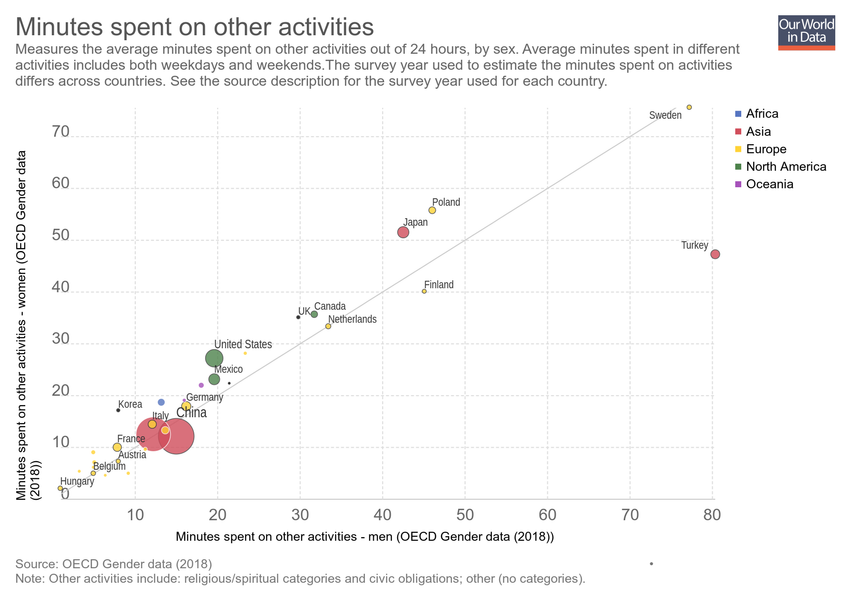
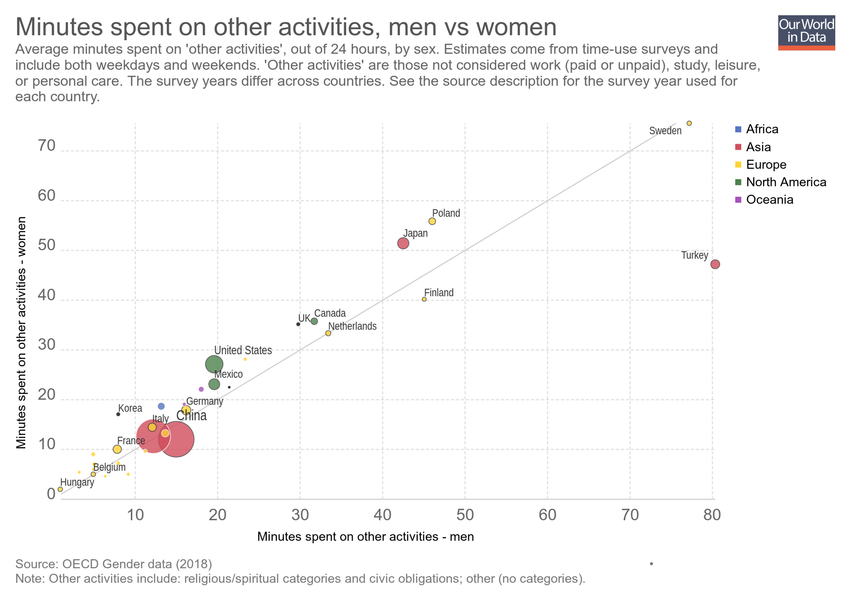
Updating chart minutes-spent-on-other-activities

diff --git a/grapher/minutes-spent-on-other-activities.html b/grapher/minutes-spent-on-other-activities.html
@@ -1,4 +1,4 @@
-<!doctype html><html><head><meta name="viewport" content="width=device-width, initial-scale=1" /><title>Minutes spent on other activities - Our World in Data</title><meta name="description" content="Measures the average minutes spent on other activities out of 24 hours, by sex. Average minutes spent in different activities includes both weekdays and weekends.The survey year used to estimate the minutes spent on activities differs across countries. See the source description for the survey year used for each country." /><link rel="canonical" href="https://ourworldindata.org/grapher/minutes-spent-on-other-activities" /><meta property="fb:app_id" content="1149943818390250" /><meta property="og:url" content="https://ourworldindata.org/grapher/minutes-spent-on-other-activities" /><meta property="og:title" content="Minutes spent on other activities" /><meta property="og:description" content="Measures the average minutes spent on other activities out of 24 hours, by sex. Average minutes spent in different activities includes both weekdays and weekends.The survey year used to estimate the minutes spent on activities differs across countries. See the source description for the survey year used for each country." /><meta property="og:image" content="https://ourworldindata.org/grapher/exports/minutes-spent-on-other-activities.png?v=1" /><meta property="og:image:width" content="850" /><meta property="og:image:height" content="600" /><meta property="og:site_name" content="Our World in Data" /><meta name="twitter:card" content="summary_large_image" /><meta name="twitter:site" content="@OurWorldInData" /><meta name="twitter:creator" content="@OurWorldInData" /><meta name="twitter:title" content="Minutes spent on other activities" /><meta name="twitter:description" content="Measures the average minutes spent on other activities out of 24 hours, by sex. Average minutes spent in different activities includes both weekdays and weekends.The survey year used to estimate the minutes spent on activities differs across countries. See the source description for the survey year used for each country." /><meta name="twitter:image" content="https://ourworldindata.org/grapher/exports/minutes-spent-on-other-activities.png?v=1" /><style>
+<!doctype html><html><head><meta name="viewport" content="width=device-width, initial-scale=1" /><title>Minutes spent on other activities, men vs women - Our World in Data</title><meta name="description" content="Average minutes spent on 'other activities', out of 24 hours, by sex. Estimates come from time-use surveys and include both weekdays and weekends. 'Other activities' are those not considered work (paid or unpaid), study, leisure, or personal care. The survey years differ across countries. See the source description for the survey year used for each country." /><link rel="canonical" href="https://ourworldindata.org/grapher/minutes-spent-on-other-activities" /><meta property="fb:app_id" content="1149943818390250" /><meta property="og:url" content="https://ourworldindata.org/grapher/minutes-spent-on-other-activities" /><meta property="og:title" content="Minutes spent on other activities, men vs women" /><meta property="og:description" content="Average minutes spent on 'other activities', out of 24 hours, by sex. Estimates come from time-use surveys and include both weekdays and weekends. 'Other activities' are those not considered work (paid or unpaid), study, leisure, or personal care. The survey years differ across countries. See the source description for the survey year used for each country." /><meta property="og:image" content="https://ourworldindata.org/grapher/exports/minutes-spent-on-other-activities.png?v=3" /><meta property="og:image:width" content="850" /><meta property="og:image:height" content="600" /><meta property="og:site_name" content="Our World in Data" /><meta name="twitter:card" content="summary_large_image" /><meta name="twitter:site" content="@OurWorldInData" /><meta name="twitter:creator" content="@OurWorldInData" /><meta name="twitter:title" content="Minutes spent on other activities, men vs women" /><meta name="twitter:description" content="Average minutes spent on 'other activities', out of 24 hours, by sex. Estimates come from time-use surveys and include both weekdays and weekends. 'Other activities' are those not considered work (paid or unpaid), study, leisure, or personal care. The survey years differ across countries. See the source description for the survey year used for each country." /><meta name="twitter:image" content="https://ourworldindata.org/grapher/exports/minutes-spent-on-other-activities.png?v=3" /><style>
         html, body {
             height: 100%;
             margin: 0;
@@ -20,8 +20,8 @@
         }
     </style><noscript><style>
                     figure { display: none !important; }
-                </style></noscript><link rel="stylesheet" href="https://ourworldindata.org/grapher/assets/commons.bundle.dcbbe53805c487d5e57617b10ac73a8a.css" /><link rel="preload" href="/grapher/data/variables/96621+96616+72+123.json?v=1" as="fetch" crossorigin /></head><body class="singleChart"><figure data-grapher-src="/grapher/minutes-spent-on-other-activities"></figure><noscript id="fallback"><img src="/grapher/exports/minutes-spent-on-other-activities.svg" /><p>Interactive visualization requires JavaScript</p></noscript><script src="https://cdn.polyfill.io/v2/polyfill.min.js?features=es6,fetch"></script><script src="https://ourworldindata.org/grapher/assets/commons.bundle.43d139222ef978d52c09.js"></script><script src="https://ourworldindata.org/grapher/assets/charts.bundle.43d139222ef978d52c09.js"></script><script>
-        var jsonConfig = {"map":{"projection":"World","colorSchemeLabels":[],"colorSchemeValues":[],"colorSchemeMinValue":0,"customNumericColors":[],"customCategoryColors":{},"customCategoryLabels":{},"customHiddenCategories":{}},"tab":"chart","note":"Other activities include: religious/spiritual categories and civic obligations; other (no categories).","slug":"minutes-spent-on-other-activities","type":"ScatterPlot","title":"Minutes spent on other activities","xAxis":{"scaleType":"linear"},"yAxis":{"min":0,"scaleType":"linear"},"version":1,"subtitle":"Measures the average minutes spent on other activities out of 24 hours, by sex. Average minutes spent in different activities includes both weekdays and weekends.The survey year used to estimate the minutes spent on activities differs across countries. See the source description for the survey year used for each country.","hasMapTab":false,"stackMode":"absolute","dimensions":[{"display":{},"property":"y","variableId":96621},{"display":{},"property":"x","variableId":96616},{"display":{},"property":"size","variableId":72},{"display":{},"property":"color","variableId":123}],"isAutoSlug":true,"hasChartTab":true,"isPublished":true,"selectedData":[],"comparisonLine":{},"hideTitleAnnotation":true,"id":2542};
+                </style></noscript><link rel="stylesheet" href="https://ourworldindata.org/grapher/assets/commons.bundle.dcbbe53805c487d5e57617b10ac73a8a.css" /><link rel="preload" href="/grapher/data/variables/96621+96616+72+123.json?v=3" as="fetch" crossorigin /></head><body class="singleChart"><figure data-grapher-src="/grapher/minutes-spent-on-other-activities"></figure><noscript id="fallback"><img src="/grapher/exports/minutes-spent-on-other-activities.svg" /><p>Interactive visualization requires JavaScript</p></noscript><script src="https://cdn.polyfill.io/v2/polyfill.min.js?features=es6,fetch"></script><script src="https://ourworldindata.org/grapher/assets/commons.bundle.43d139222ef978d52c09.js"></script><script src="https://ourworldindata.org/grapher/assets/charts.bundle.43d139222ef978d52c09.js"></script><script>
+        var jsonConfig = {"id":2542,"map":{"projection":"World","colorSchemeLabels":[],"colorSchemeValues":[],"colorSchemeMinValue":0,"customNumericColors":[],"customCategoryColors":{},"customCategoryLabels":{},"customHiddenCategories":{}},"tab":"chart","note":"Other activities include: religious/spiritual categories and civic obligations; other (no categories).","slug":"minutes-spent-on-other-activities","type":"ScatterPlot","title":"Minutes spent on other activities, men vs women","xAxis":{"scaleType":"linear"},"yAxis":{"min":0,"scaleType":"linear"},"version":3,"subtitle":"Average minutes spent on 'other activities', out of 24 hours, by sex. Estimates come from time-use surveys and include both weekdays and weekends. 'Other activities' are those not considered work (paid or unpaid), study, leisure, or personal care. The survey years differ across countries. See the source description for the survey year used for each country.","hasMapTab":false,"stackMode":"absolute","dimensions":[{"display":{"name":"Minutes spent on other activities - women"},"property":"y","variableId":96621},{"display":{"name":"Minutes spent on other activities - men"},"property":"x","variableId":96616},{"display":{},"property":"size","variableId":72},{"display":{},"property":"color","variableId":123}],"hasChartTab":true,"isPublished":true,"selectedData":[],"comparisonLine":{},"hideTitleAnnotation":true};
         var figure = document.getElementsByTagName("figure")[0];
         try {
             window.App = {};
